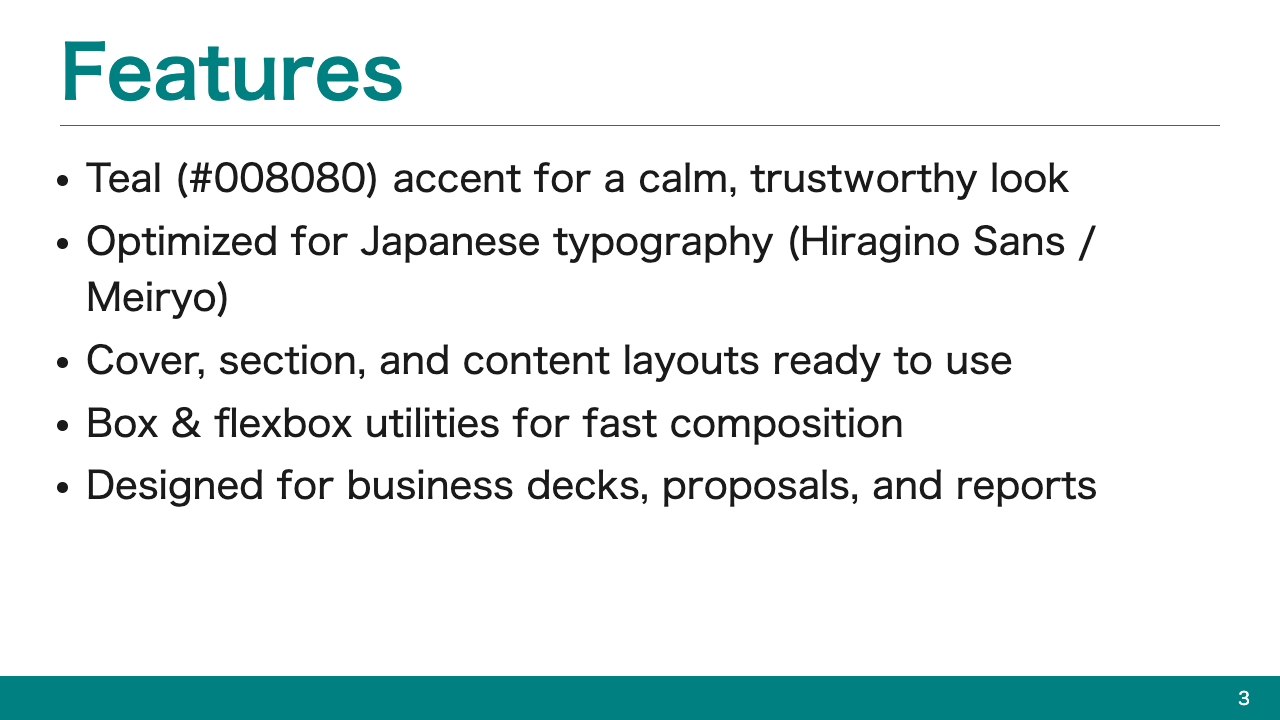
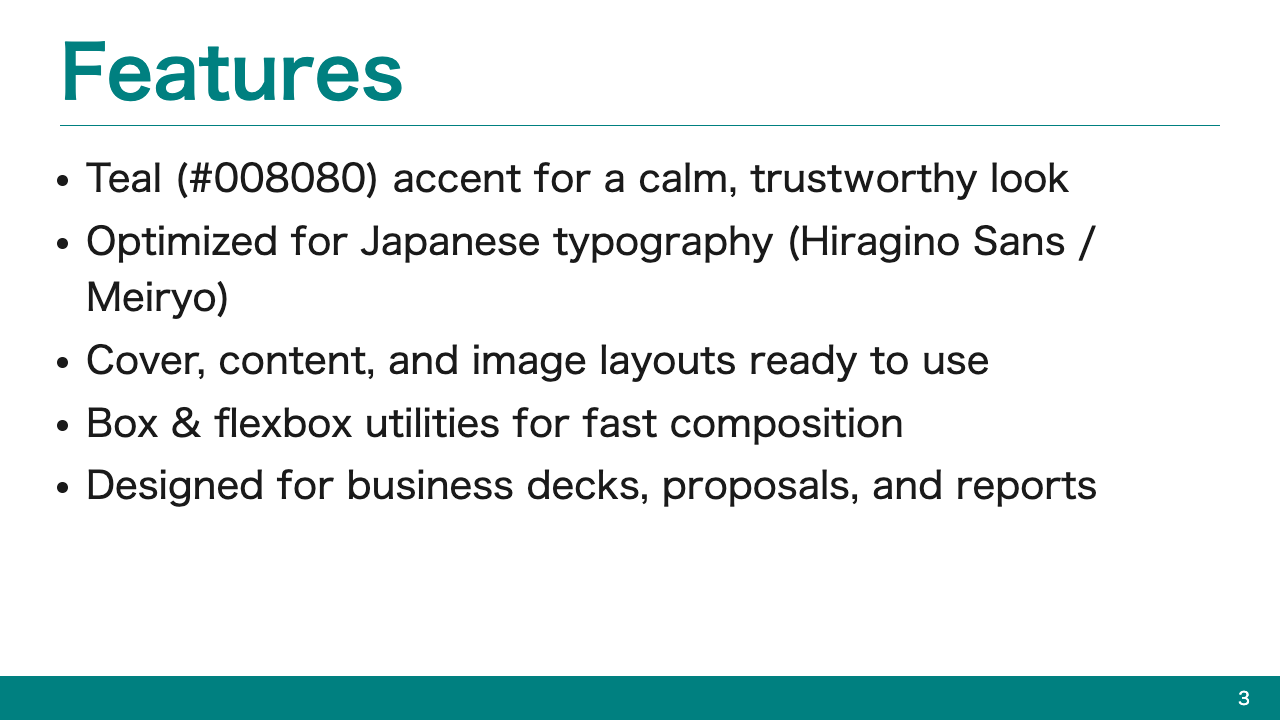
Replace section divider preview with image layout demo
The .section class was a meta concept that didn't fit a feature showcase.
Replace it with a clearer image layout demo using .flex .sa with a sample
chart, and update the README preview grid label accordingly.

Changed region(s): [[0.1562, 0.4583, 0.8125, 0.55]]

diff --git a/README.md b/README.md
@@ -4,9 +4,9 @@
 
 ## プレビュー
 
-| カバーページ | セクション区切り | コンテンツ |
+| カバーページ | 画像レイアウト | コンテンツ |
 |---|---|---|
-| ![Cover](images/preview.001.png) | ![Section](images/preview.002.png) | ![Content](images/preview.003.png) |
+| ![Cover](images/preview.001.png) | ![Image Layout](images/preview.002.png) | ![Content](images/preview.003.png) |
 
 | ボックススタイル | 2カラムレイアウト | 引用ブロック |
 |---|---|---|
@@ -105,16 +105,29 @@ paginate: true
 <!-- _class: cover-page -->
 ```
 
-### セクション区切り
+### 画像レイアウト
 
-`<!-- _class: section -->` を使うと、章のはじまりを示すセクションスライドを作れます。背景がティールに塗りつぶされ、左上にタイトルとサブタイトルが配置されます。
+`.flex .sa` クラスで画像とテキストを横に並べられます。チャート・スクショ・写真の横にポイントを書くレイアウトに使えます。
 
 ```markdown
-<!-- _class: section -->
+## Image Layout
 
-# 01. Overview
+<div class="flex sa">
+<div>
 
-セクションの要約や狙いを書く
+### Use for
+
+- Charts and KPIs
+- Screenshots
+- Customer photos
+
+</div>
+<div>
+
+![w:520](images/sample-chart.png)
+
+</div>
+</div>
 ```
 
 ### ボックススタイル

diff --git a/example.md b/example.md
@@ -9,11 +9,25 @@ paginate: true
 
 ---
 
-<!-- _class: section -->
+## Image Layout
 
-# Section Divider
+<div class="flex sa">
+<div>
 
-Use `<!-- _class: section -->` to mark the start of a new chapter.
+### Use for
+
+- Charts and KPIs
+- Screenshots
+- Customer photos
+- Product diagrams
+
+</div>
+<div>
+
+![w:520](images/sample-chart.png)
+
+</div>
+</div>
 
 ---
 
@@ -21,7 +35,7 @@ Use `<!-- _class: section -->` to mark the start of a new chapter.
 
 - Teal (#008080) accent for a calm, trustworthy look
 - Optimized for Japanese typography (Hiragino Sans / Meiryo)
-- Cover, section, and content layouts ready to use
+- Cover, content, and image layouts ready to use
 - Box & flexbox utilities for fast composition
 - Designed for business decks, proposals, and reports
 
